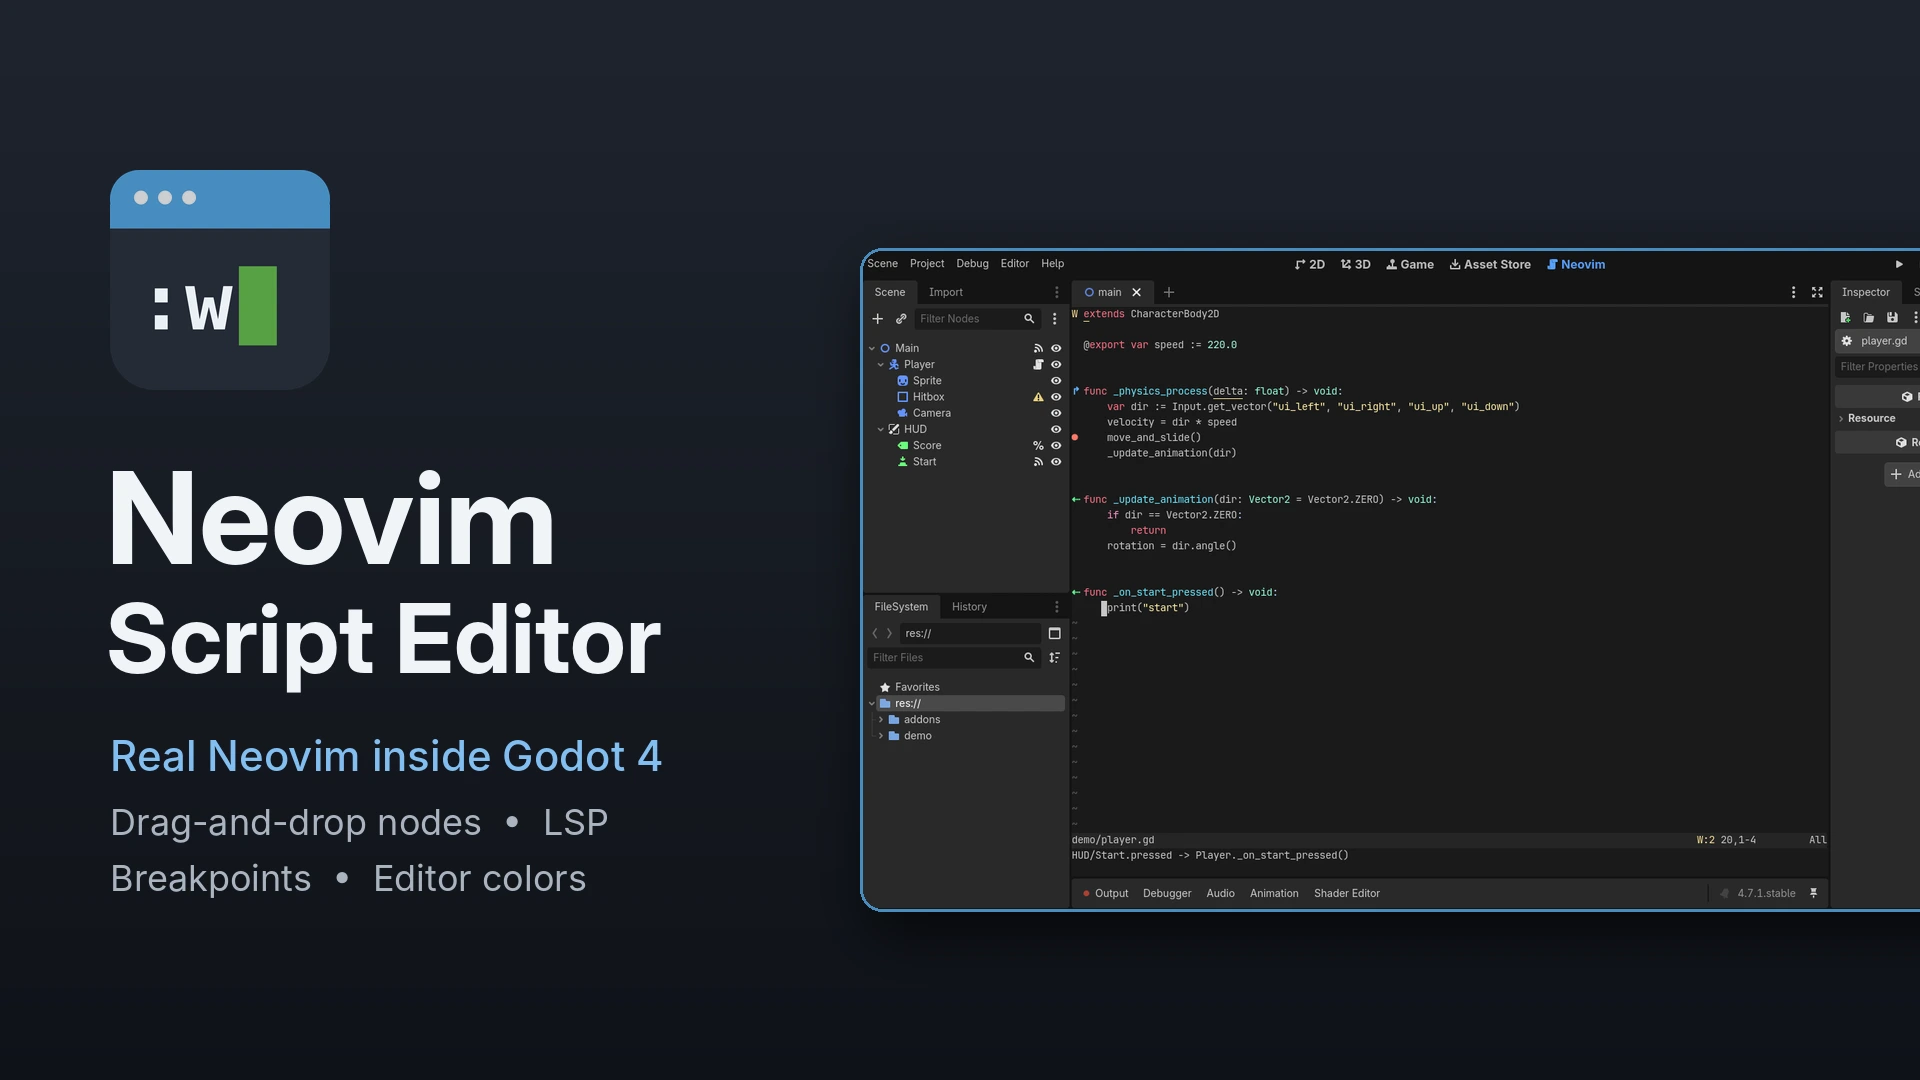
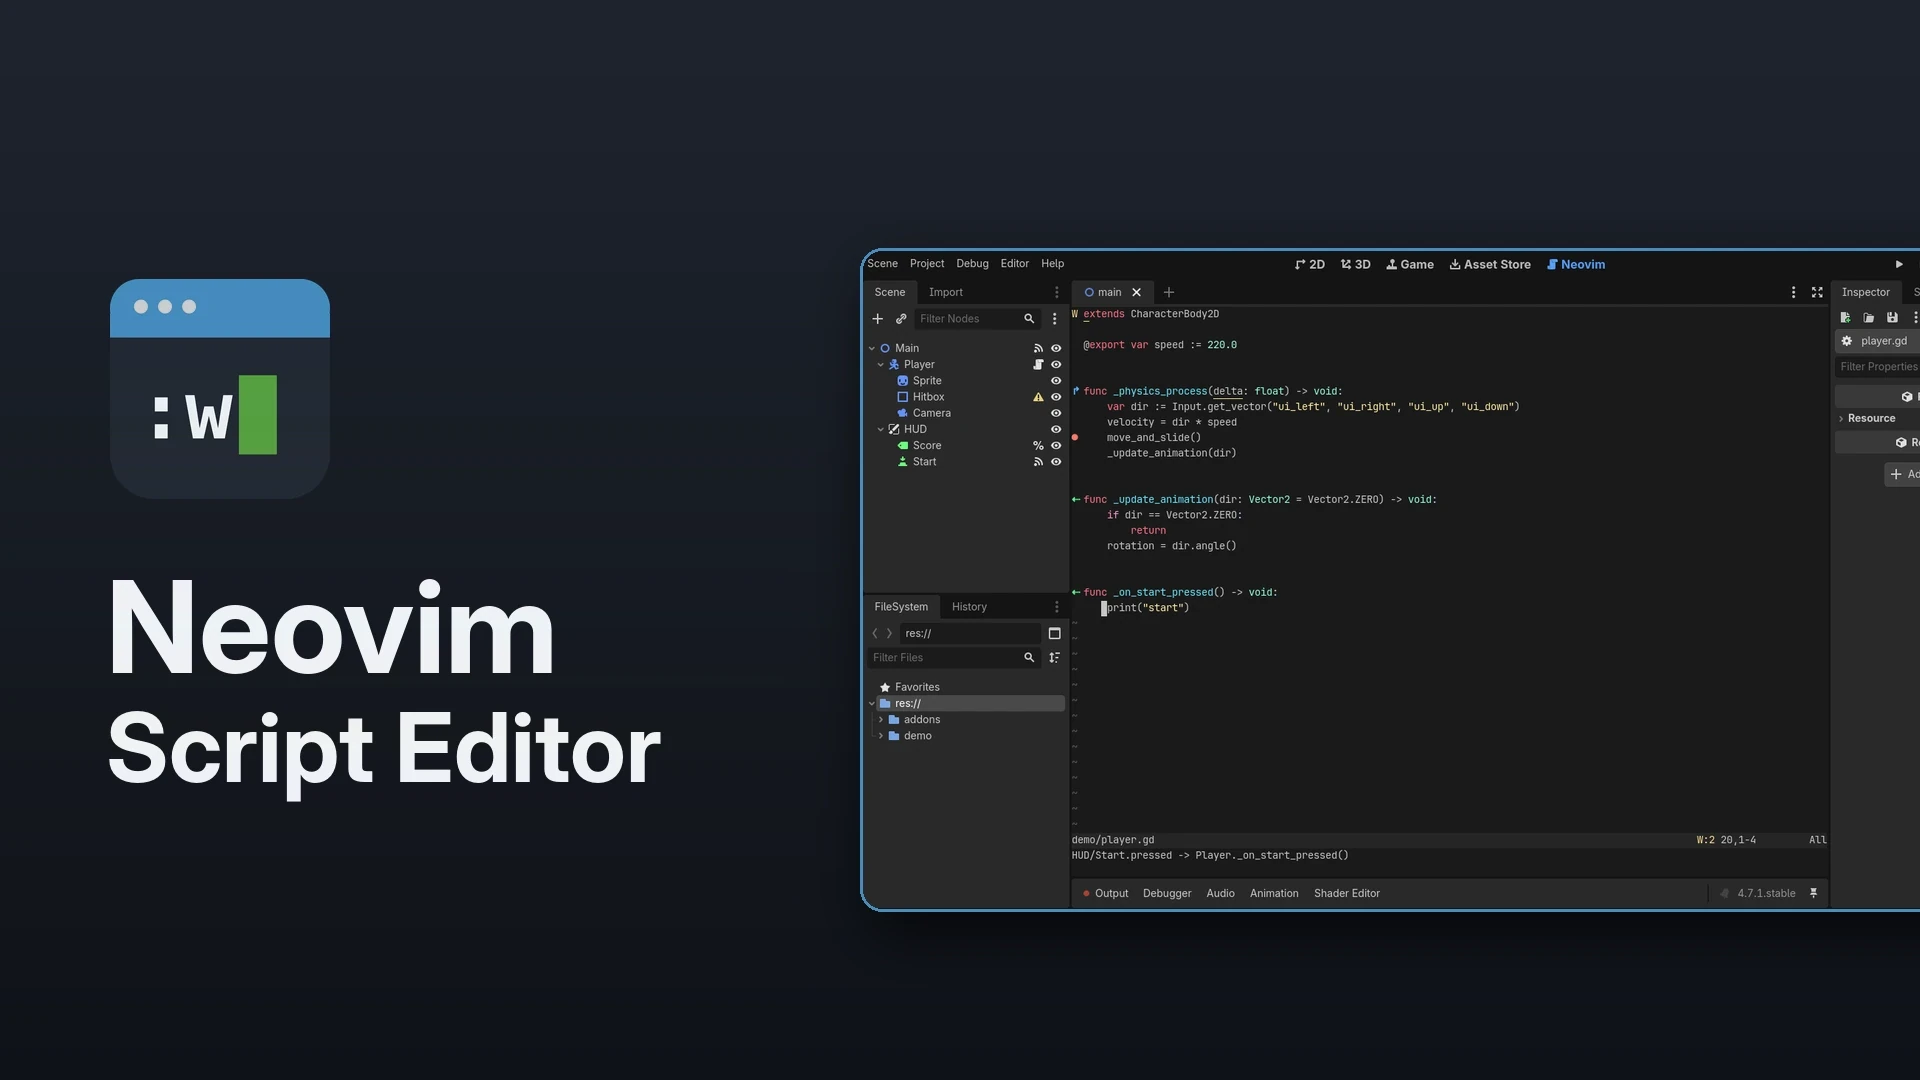
Drop the tagline and feature list from the store thumbnail
The Godot Asset Store guidelines now reject thumbnails dominated by text,
such as feature lists or slogans. Keep the icon, the name and the Neovim
tab screenshot, recenter the left column, and note the rule in
asset-store.md.

Claude-Session: https://claude.ai/code/session_01U7uW463Gi7KpuKC4wTSzva

Changed region(s): [[0.0312, 0.2444, 0.3438, 0.825], [0.0312, 0.1528, 0.1875, 0.2139]]

diff --git a/docs/store/asset-store.md b/docs/store/asset-store.md
@@ -248,7 +248,11 @@ The code is generated by AI. It generated the GDScript and Lua bindings.
 From `docs/store/`. Each major feature gets its own screenshot, showing
 only the Neovim tab (a `-neovim` editor profile).
 
-- Thumbnail: `thumbnail-1920x1080.webp`
+- Thumbnail: `thumbnail-1920x1080.webp`. The store's
+  [guidelines](https://store.godotengine.org/guidelines/) ask for a 16:9
+  thumbnail that stays recognizable at small sizes, and reject ones dominated
+  by text such as feature lists or slogans, so it carries only the icon, the
+  name and the Neovim tab.
 - Featured image: `featured-1920x1080.webp`
 - Screenshots: `overview.webp`, `drag-and-drop.webp`, `lsp-hover.webp`,
   `function-search.webp`, `format-on-save.webp`, `editor-profiles.webp`,
